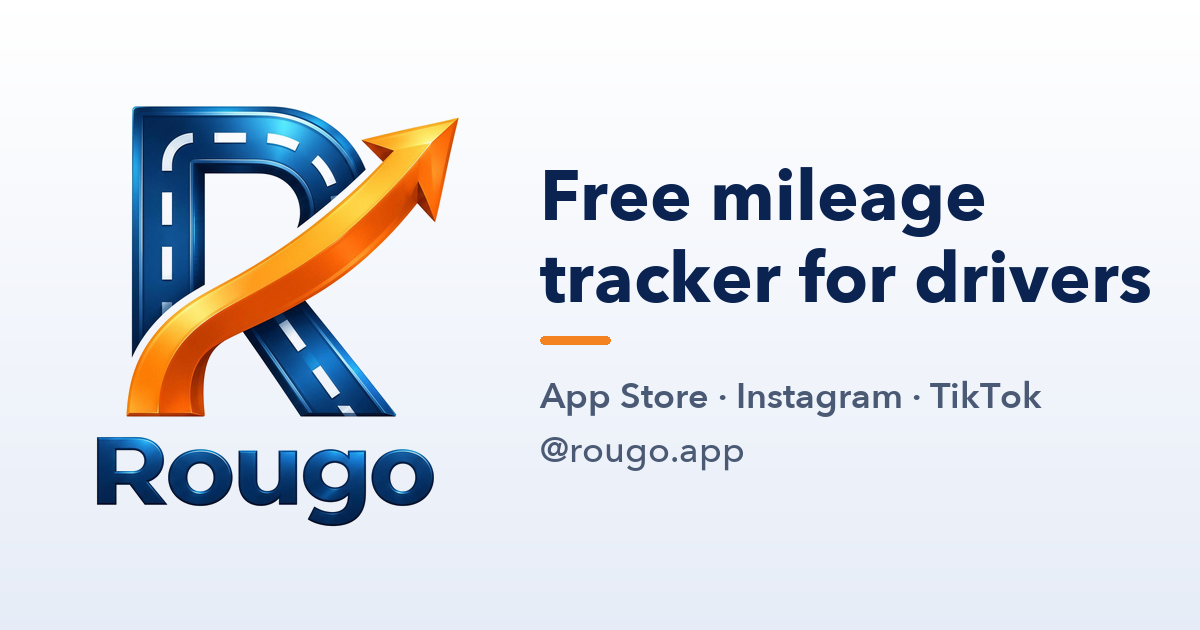
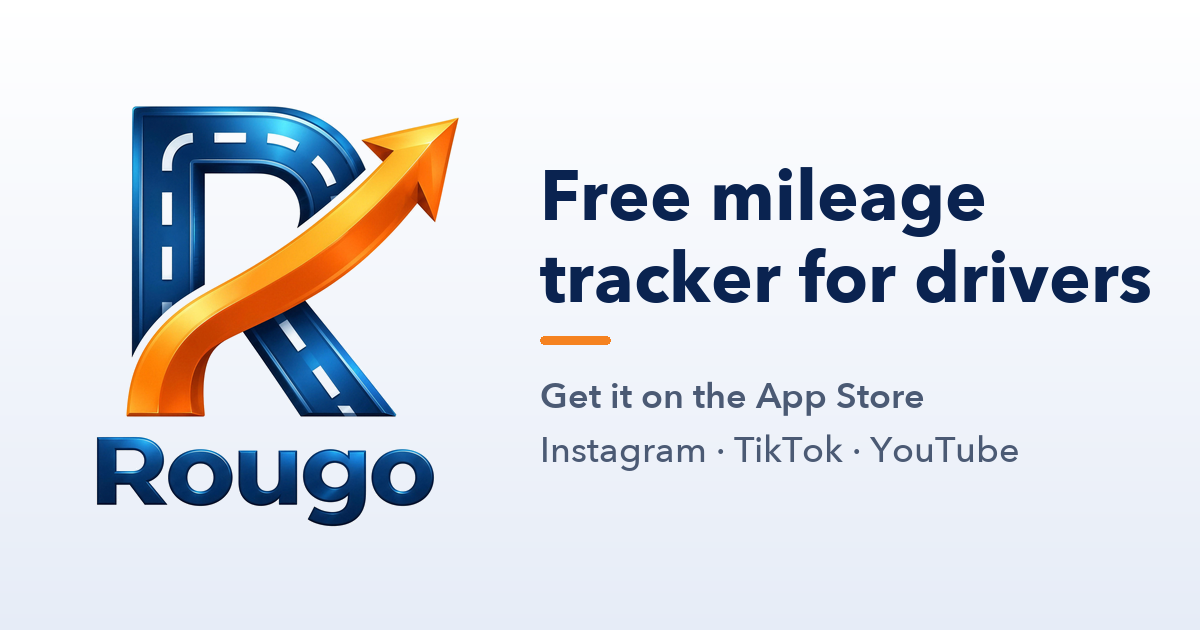
Add YouTube button (@rougoapp), share image lists YouTube

Changed region(s): [[0.4317, 0.6032, 0.8633, 0.6635], [0.4317, 0.6937, 0.8633, 0.754]]

diff --git a/index.html b/index.html
@@ -3,8 +3,8 @@
 <head>
 <meta charset="utf-8">
 <meta name="viewport" content="width=device-width, initial-scale=1, viewport-fit=cover">
-<title>Rougo: App Store, Instagram and TikTok</title>
-<meta name="description" content="Rougo is a free mileage tracker for drivers. Get it on the App Store and follow @rougo.app on Instagram and TikTok.">
+<title>Rougo: App Store, Instagram, TikTok and YouTube</title>
+<meta name="description" content="Rougo is a free mileage tracker for drivers. Get it on the App Store and follow Rougo on Instagram, TikTok and YouTube.">
 <meta name="theme-color" content="#0a2350">
 <link rel="icon" type="image/png" sizes="32x32" href="favicon.png">
 <link rel="apple-touch-icon" href="icon-180.png">
@@ -12,7 +12,7 @@
 <meta property="og:type" content="website">
 <meta property="og:site_name" content="Rougo">
 <meta property="og:title" content="Rougo: free mileage tracker for drivers">
-<meta property="og:description" content="Get Rougo on the App Store and follow @rougo.app on Instagram and TikTok.">
+<meta property="og:description" content="Get Rougo on the App Store and follow Rougo on Instagram, TikTok and YouTube.">
 <meta property="og:url" content="https://dmcdonald0511-hub.github.io/rougo/">
 <meta property="og:image" content="https://dmcdonald0511-hub.github.io/rougo/og.png">
 <meta property="og:image:width" content="1200">
@@ -127,6 +127,12 @@
   <a class="btn" href="https://www.tiktok.com/@rougo.app">
     <svg viewBox="0 0 24 24" aria-hidden="true"><path d="M12.525.02c1.31-.02 2.61-.01 3.91-.02.08 1.53.63 3.09 1.75 4.17 1.12 1.11 2.7 1.62 4.24 1.79v4.03c-1.44-.05-2.89-.35-4.2-.97-.57-.26-1.1-.59-1.62-.93-.01 2.92.01 5.84-.02 8.75-.08 1.4-.54 2.79-1.35 3.94-1.31 1.92-3.58 3.17-5.91 3.21-1.43.08-2.86-.31-4.08-1.03-2.02-1.19-3.44-3.37-3.65-5.71-.02-.5-.03-1-.01-1.49.18-1.9 1.12-3.72 2.58-4.96 1.66-1.44 3.98-2.13 6.15-1.72.02 1.48-.04 2.96-.04 4.44-.99-.32-2.15-.23-3.02.37-.63.41-1.11 1.04-1.36 1.75-.21.51-.15 1.07-.14 1.61.24 1.64 1.82 3.02 3.5 2.87 1.12-.01 2.19-.66 2.77-1.61.19-.33.4-.67.41-1.06.1-1.79.06-3.57.07-5.36.01-4.03-.01-8.05.02-12.07z"/></svg>
     <span class="label"><b data-en="Follow on TikTok" data-es="Síguenos en TikTok">Follow on TikTok</b><span>@rougo.app</span></span>
+    <span class="chev" aria-hidden="true">›</span>
+  </a>
+
+  <a class="btn" href="https://www.youtube.com/@rougoapp">
+    <svg viewBox="0 0 24 24" aria-hidden="true"><path d="M23.498 6.186a3.016 3.016 0 0 0-2.122-2.136C19.505 3.545 12 3.545 12 3.545s-7.505 0-9.377.505A3.017 3.017 0 0 0 .502 6.186C0 8.07 0 12 0 12s0 3.93.502 5.814a3.016 3.016 0 0 0 2.122 2.136c1.871.505 9.376.505 9.376.505s7.505 0 9.377-.505a3.015 3.015 0 0 0 2.122-2.136C24 15.93 24 12 24 12s0-3.93-.502-5.814zM9.545 15.568V8.432L15.818 12l-6.273 3.568z"/></svg>
+    <span class="label"><b data-en="Watch on YouTube" data-es="Míranos en YouTube">Watch on YouTube</b><span>@rougoapp</span></span>
     <span class="chev" aria-hidden="true">›</span>
   </a>
 

diff --git a/README.md b/README.md
@@ -1,5 +1,5 @@
 # Rougo links page
 
-https://dmcdonald0511-hub.github.io/rougo/ opens the App Store, Instagram and TikTok links for Rougo. The Rougo QR code points here.
+https://dmcdonald0511-hub.github.io/rougo/ opens the App Store, Instagram, TikTok and YouTube links for Rougo. The Rougo QR code points here.
 
 Source: Marketing/links-page in the app repo (edit there, then copy site/ here).
